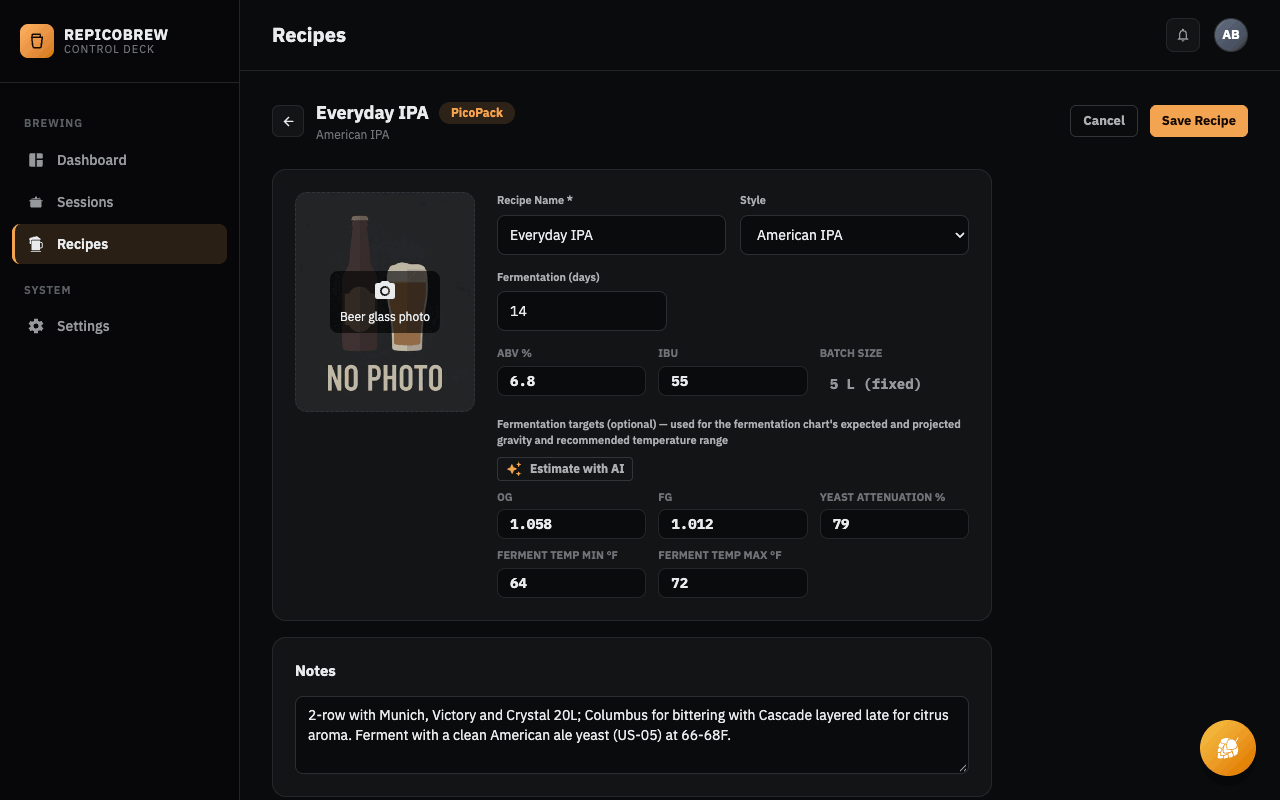
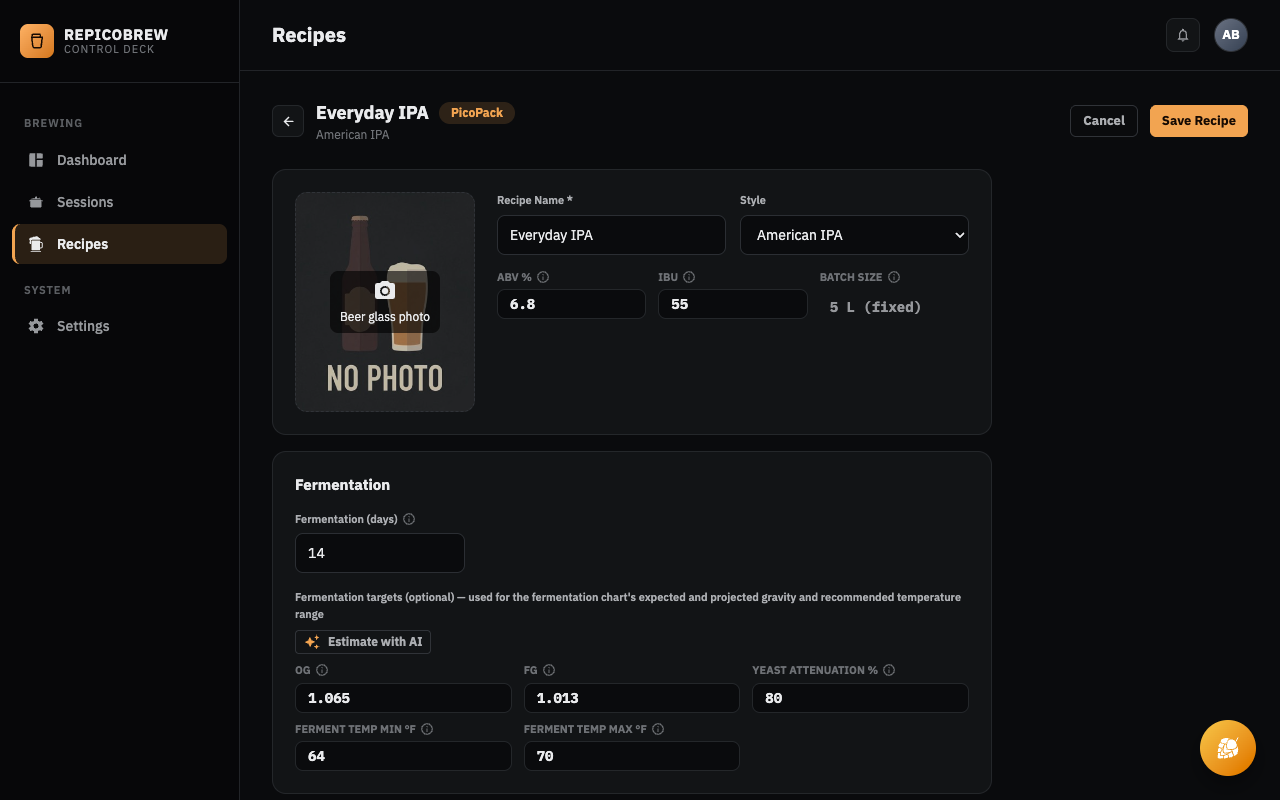
README: refresh the recipe editor screenshots (Fermentation section, (i) explanations)

diff --git a/README.md b/README.md
@@ -18,8 +18,8 @@ A PicoBrew server as an alternative to [chiefwigms/picobrew_pico](https://github
     <td align="center" valign="top"><a href="docs/screenshots/session-brew.png"><img src="docs/screenshots/session-brew.png" alt="Brew session chart" width="400"></a><br><sub>Brew chart with each Pico step marked</sub></td>
   </tr>
   <tr>
-    <td align="center" valign="top"><a href="docs/screenshots/recipe-picopack-edit.png"><img src="docs/screenshots/recipe-picopack-edit.png" alt="PicoPack recipe editor" width="400"></a><br><sub>PicoPack editor: optional gravity and fermentation temperature targets, with an AI estimate button</sub></td>
-    <td align="center" valign="top"><a href="docs/screenshots/recipe-zpack.png"><img src="docs/screenshots/recipe-zpack.png" alt="ZPack recipe" width="400"></a><br><sub>ZPack recipe details</sub></td>
+    <td align="center" valign="top"><a href="docs/screenshots/recipe-picopack-edit.png"><img src="docs/screenshots/recipe-picopack-edit.png" alt="PicoPack recipe editor" width="400"></a><br><sub>PicoPack editor: fermentation length, gravity and temperature targets, with an AI estimate button</sub></td>
+    <td align="center" valign="top"><a href="docs/screenshots/recipe-zpack.png"><img src="docs/screenshots/recipe-zpack.png" alt="ZPack recipe" width="400"></a><br><sub>ZPack recipe details, with (i) explanations of brewing terms</sub></td>
   </tr>
   <tr>
     <td align="center" valign="top"><a href="docs/screenshots/ai-brewmaster.png"><img src="docs/screenshots/ai-brewmaster.png" alt="AI Brewmaster" width="400"></a><br><sub>AI Brewmaster: chat, draft recipes, start sessions</sub></td>
